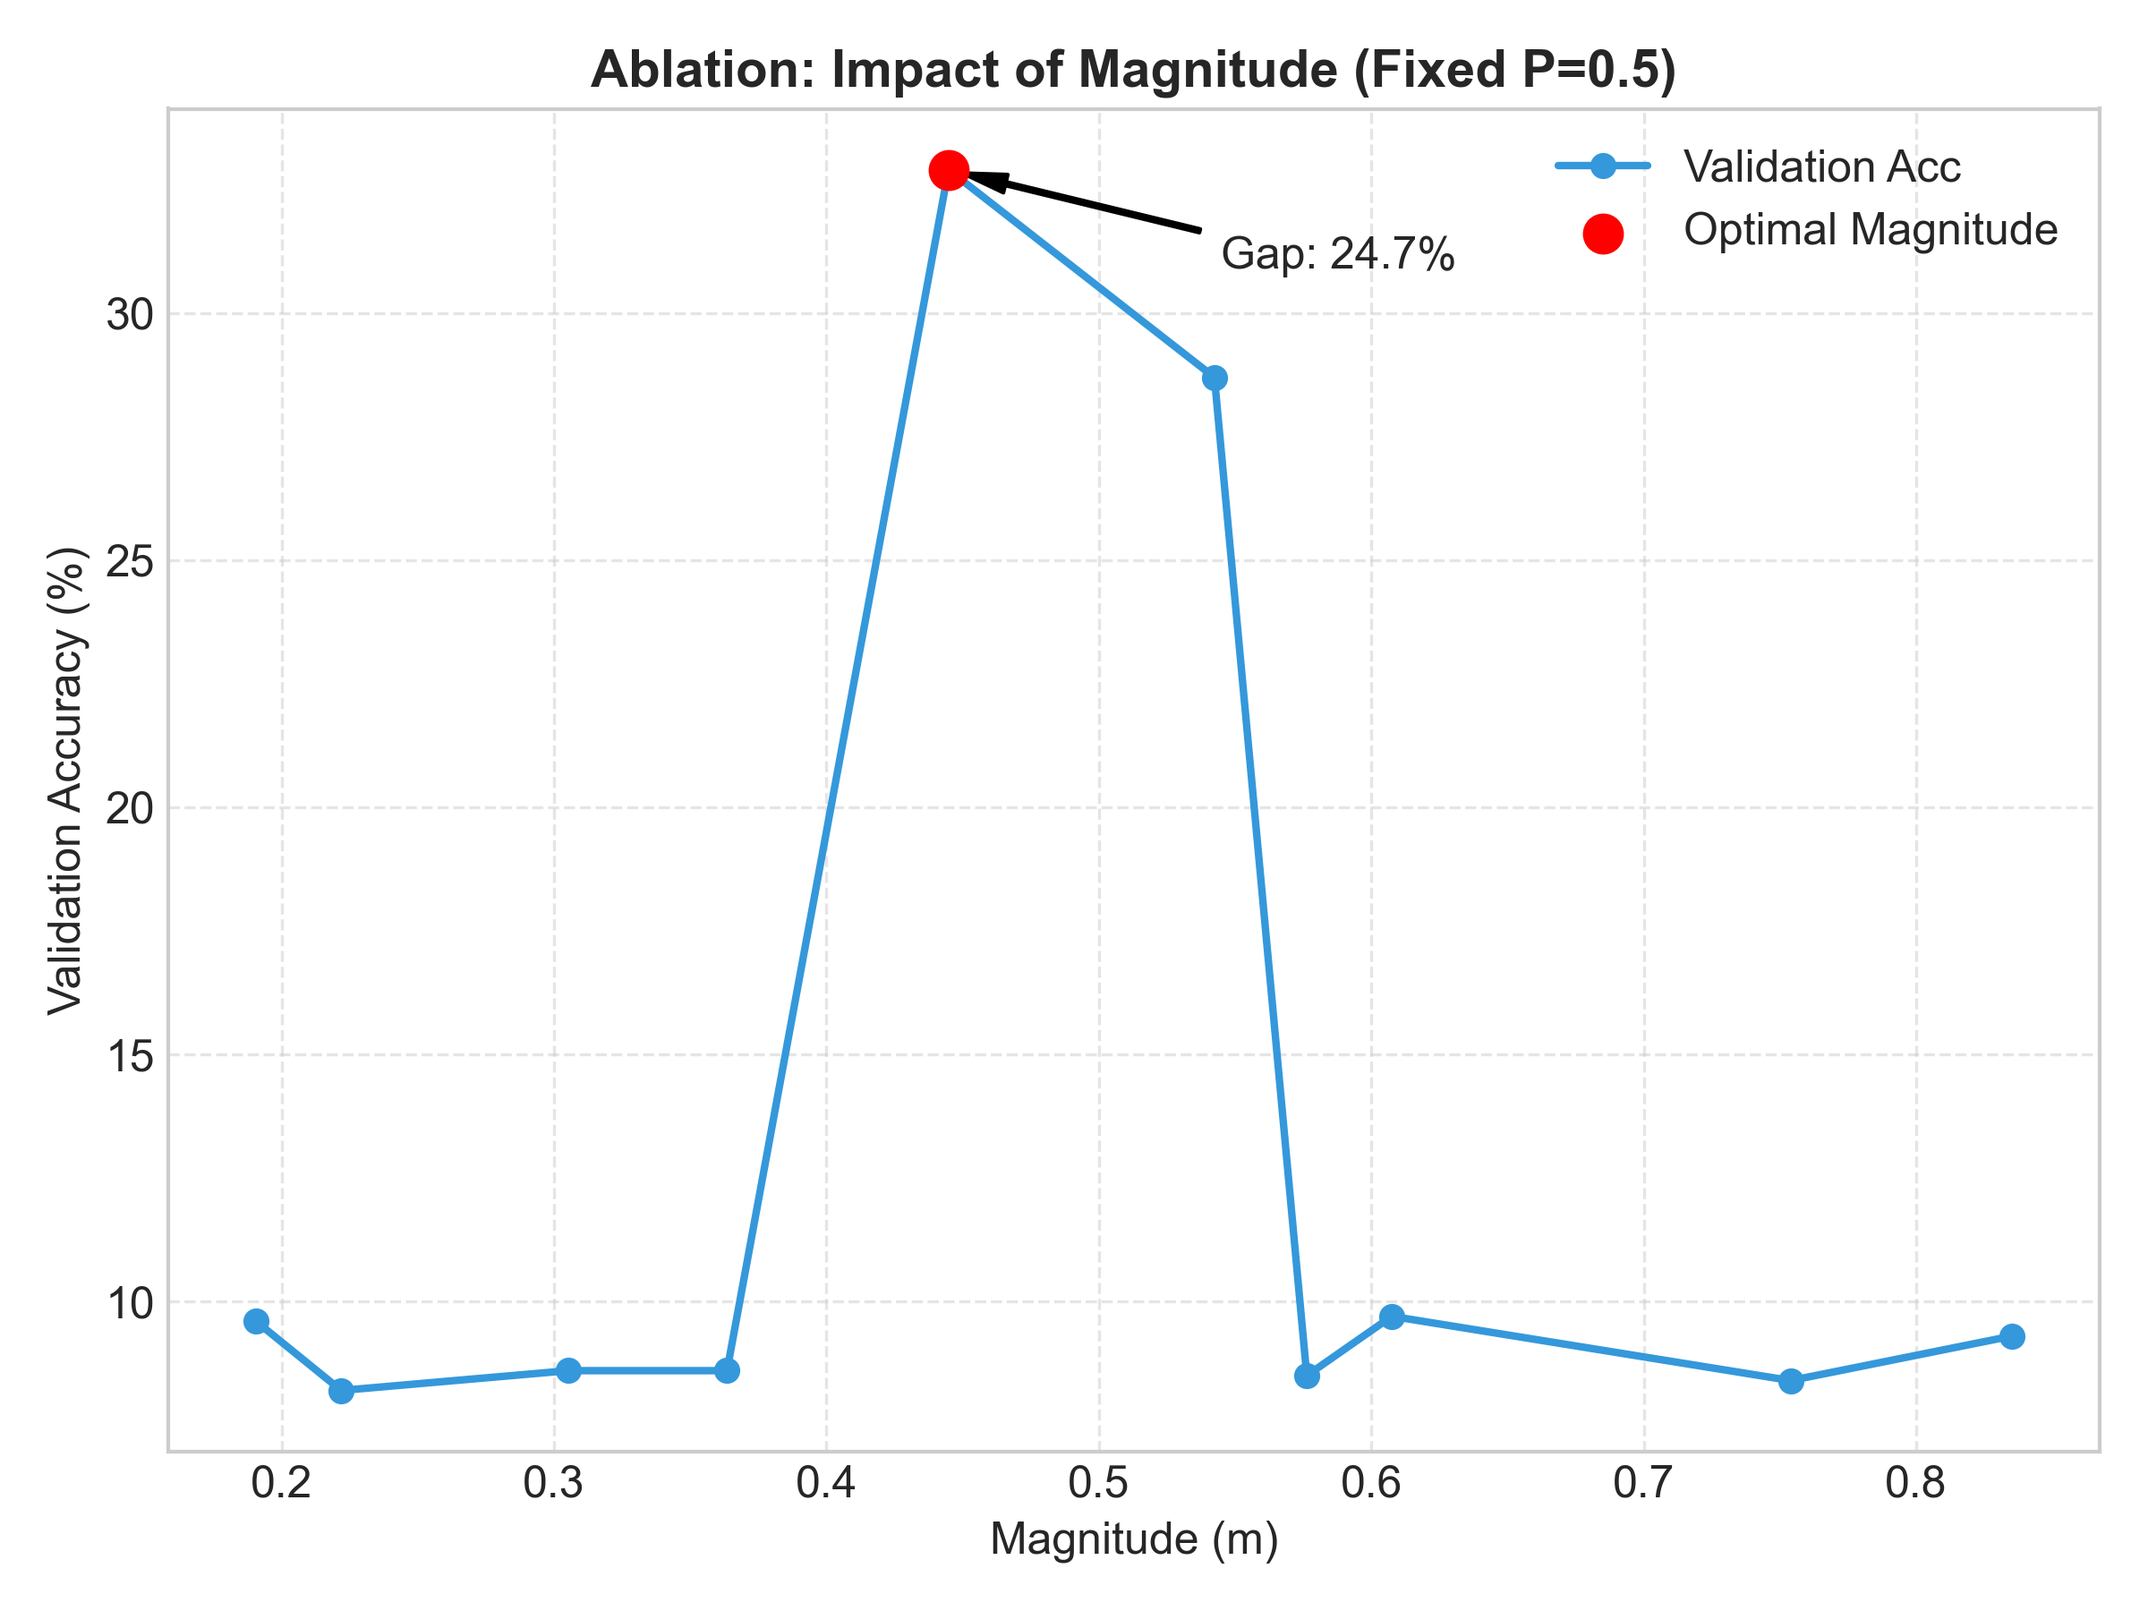
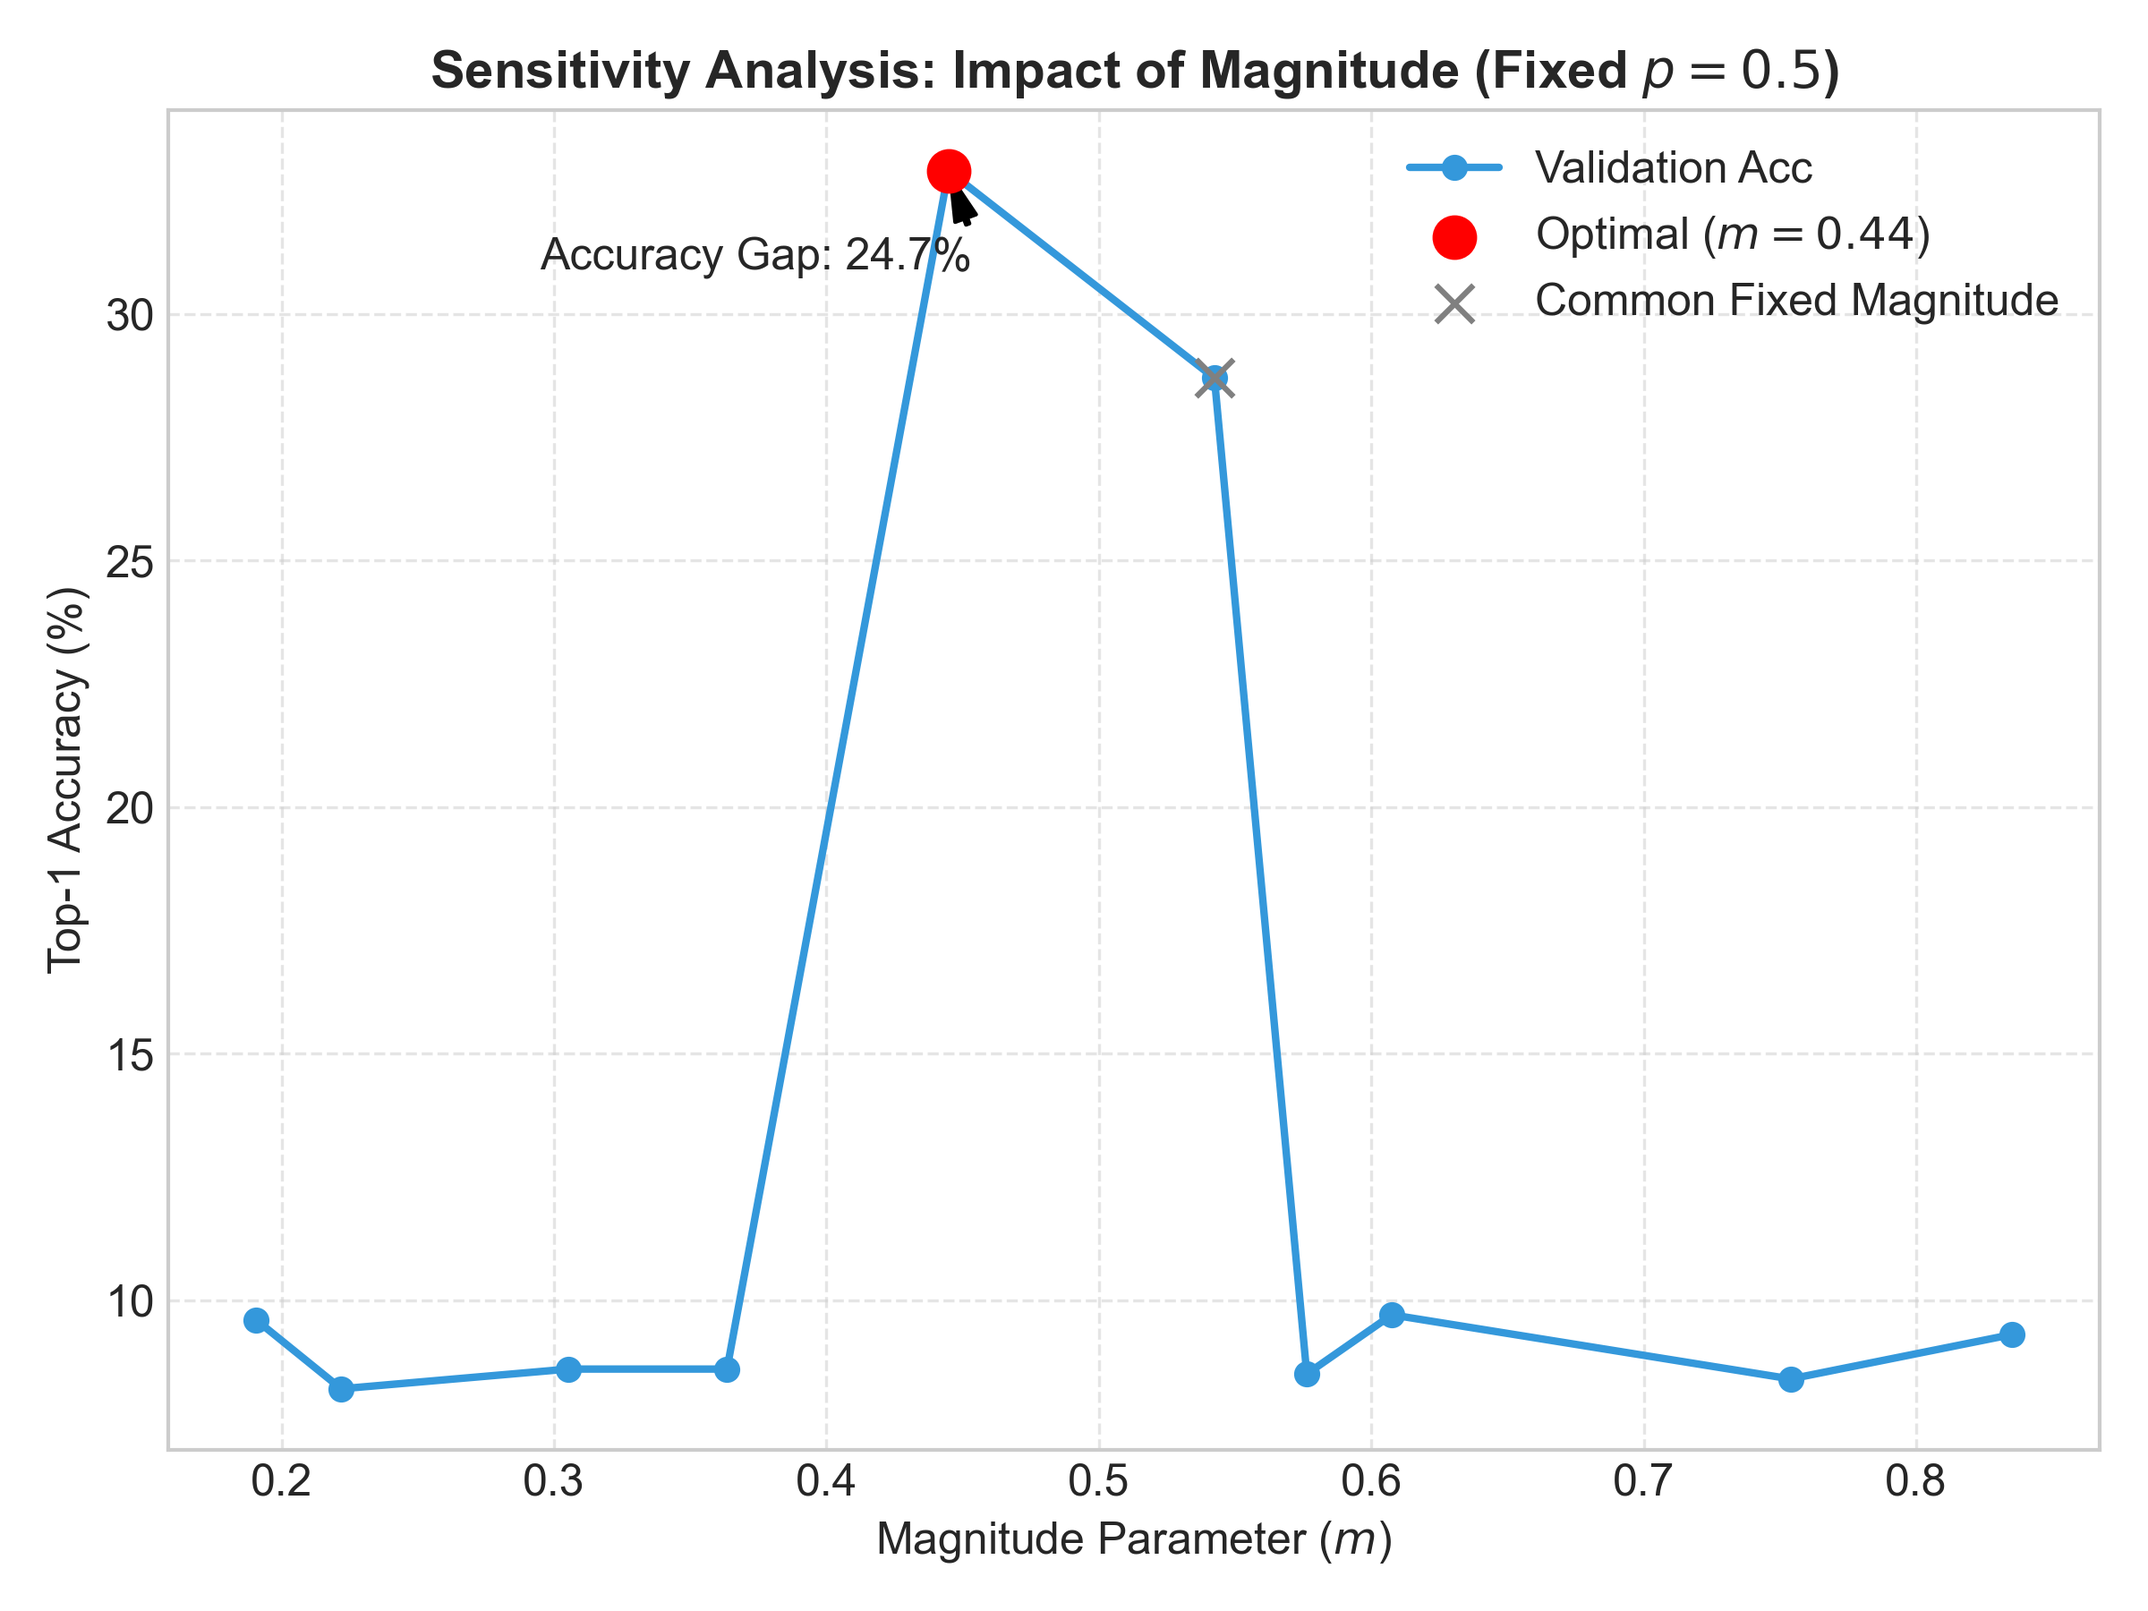
feat: update figure generation scripts and paper draft for clarity and consistency

diff --git a/scripts/generate_paper_figures.py b/scripts/generate_paper_figures.py
@@ -31,22 +31,23 @@ def plot_stability_boxplot():
     # Custom color palette
     colors = {'Baseline': '#95a5a6', 'RandAugment': '#e74c3c', 'Ours_optimal': '#2ecc71'}
     
-    sns.boxplot(x='method', y='val_acc', data=df, palette=colors, width=0.5)
+    # Use hue to fix the FutureWarning and set legend=False
+    sns.boxplot(x='method', y='val_acc', hue='method', data=df, palette=colors, width=0.5, legend=False)
     sns.stripplot(x='method', y='val_acc', data=df, color='black', alpha=0.6, jitter=0.1)
     
-    plt.title('Stability Analysis: Training Variance (5 Folds)', fontsize=14, fontweight='bold')
-    plt.ylabel('Validation Accuracy (%)')
-    plt.xlabel('')
+    plt.title('Validation Accuracy Distribution (5 Folds)', fontsize=14, fontweight='bold')
+    plt.ylabel('Top-1 Accuracy (%)')
+    plt.xlabel('Method')
     
     # Add Std Dev annotation
-    stats = df.groupby('method')['val_acc'].agg(['mean', 'std'])
+    stats = df.groupby('method', observed=True)['val_acc'].agg(['mean', 'std'])
     for i, method in enumerate(methods):
         mean = stats.loc[method, 'mean']
         std = stats.loc[method, 'std']
         plt.text(i, mean + 1.5, f"Mean: {mean:.1f}%\n$ \\sigma $: {std:.2f}",
                  ha='center', va='bottom', fontsize=11, fontweight='bold')
 
-    plt.ylim(36, 45)  # Zoom in to see variance
+    plt.ylim(36, 45)
     plt.tight_layout()
     plt.savefig(os.path.join(OUTPUT_DIR, 'fig1_stability_boxplot.png'))
     plt.close()
@@ -63,14 +64,14 @@ def plot_search_space_heatmap():
     sc = plt.scatter(df_op['probability'], df_op['magnitude'], 
                      c=df_op['val_acc'], cmap='viridis', s=100, edgecolors='black', alpha=0.8)
     
-    plt.colorbar(sc, label='Valid Accuracy (%)')
+    plt.colorbar(sc, label='Validation Accuracy (%)')
     
-    plt.title('Prior-Guided Search Space (ColorJitter)', fontsize=14, fontweight='bold')
-    plt.xlabel('Probability (p)')
-    plt.ylabel('Magnitude (m)')
+    plt.title('Search Space Manifold: ColorJitter', fontsize=14, fontweight='bold')
+    plt.xlabel('Probability ($p$)')
+    plt.ylabel('Magnitude ($m$)')
     
-    # Highlight the chosen point roughly (Phase C selected ~ m=0.25, p=0.42)
-    plt.scatter([0.42], [0.25], s=200, facecolors='none', edgecolors='red', linewidth=2, label='Optimal Found')
+    # Highlight the chosen point
+    plt.scatter([0.42], [0.25], s=250, facecolors='none', edgecolors='red', linewidth=3, label='Optimal Configuration')
     plt.legend(loc='upper left')
     
     plt.xlim(0, 1.0)
@@ -83,11 +84,8 @@ def plot_search_space_heatmap():
 
 def plot_complexity_tradeoff():
     print("Generating Complexity-Stability Trade-off...")
-    
-    # Load data from summary
     df_sum = pd.read_csv('outputs/phase_d_summary.csv')
     
-    # Map methods to our simplified labels
     method_map = {
         'Baseline': 'Baseline',
         'Ours_optimal': 'Ours (Optimal)',
@@ -111,21 +109,20 @@ def plot_complexity_tradeoff():
     colors = ['#95a5a6', '#2ecc71', '#e74c3c']
     
     # Bubble chart
-    sizes = [(acc - 20) * 30 for acc in df_plot['Accuracy']]
+    sizes = [(acc - 20) * 40 for acc in df_plot['Accuracy']]
     
     plt.scatter(df_plot['Complexity'], df_plot['Std'], s=sizes, c=colors, alpha=0.7, edgecolors='black')
     
-    # Add labels
     for i, row in df_plot.iterrows():
-        plt.text(row['Complexity'], row['Std'] + 0.05, 
-                 f"{row['Method']}\nAcc: {row['Accuracy']:.1f}%\nStd: {row['Std']:.2f}", 
-                 ha='center', fontweight='bold', fontsize=9)
+        plt.text(row['Complexity'], row['Std'] + 0.08, 
+                 f"{row['Method']}\nAcc: {row['Accuracy']:.1f}%\n$ \sigma $: {row['Std']:.2f}", 
+                 ha='center', fontweight='bold', fontsize=10)
 
-    plt.title('The Complexity Gap: Stability vs. Complexity', fontsize=14, fontweight='bold')
-    plt.ylabel('Instability (Standard Deviation) $\\downarrow$', fontsize=12)
-    plt.xlabel('Algorithmic Complexity (Search Space Size) $\\rightarrow$', fontsize=12)
+    plt.title('The Complexity Gap: Accuracy-Stability Balance', fontsize=14, fontweight='bold')
+    plt.ylabel('Instability (Standard Deviation $ \sigma $) $\\downarrow$', fontsize=12)
+    plt.xlabel('Algorithmic Complexity (Operations) $\\rightarrow$', fontsize=12)
     
-    plt.xticks([1, 2, 8], ['None', 'Single-Op', 'Multi-Op (N=2,M=9)'])
+    plt.xticks([1, 2, 8], ['Baseline', 'Single-Op (Ours)', 'Multi-Op (RandAug)'])
     plt.ylim(0.5, 1.5)
     plt.xlim(0, 10)
     plt.grid(True, linestyle='--', alpha=0.5)
@@ -143,23 +140,28 @@ def plot_ablation_magnitude():
         plt.figure(figsize=(8, 6))
         plt.plot(df['magnitude'], df['mean_val_acc'], marker='o', linewidth=2, color='#3498db', label='Validation Acc')
         
-        # Highlight best
         best_row = df.loc[df['mean_val_acc'].idxmax()]
-        plt.scatter([best_row['magnitude']], [best_row['mean_val_acc']], color='red', s=100, zorder=5, label='Optimal Magnitude')
+        # Marking both optimal and a standard high point
+        plt.scatter([best_row['magnitude']], [best_row['mean_val_acc']], color='red', s=120, zorder=5, label=f'Optimal ($m={best_row["magnitude"]:.2f}$)')
         
-        plt.title('Ablation: Impact of Magnitude (Fixed P=0.5)', fontsize=14, fontweight='bold')
-        plt.xlabel('Magnitude (m)')
-        plt.ylabel('Validation Accuracy (%)')
+        # Mark the "default" point if likely m=0.5
+        m_05 = df.iloc[(df['magnitude']-0.54).abs().argsort()[:1]]
+        if not m_05.empty:
+             plt.scatter(m_05['magnitude'], m_05['mean_val_acc'], color='gray', marker='x', s=100, zorder=5, label='Common Fixed Magnitude')
+
+        plt.title('Sensitivity Analysis: Impact of Magnitude (Fixed $p=0.5$)', fontsize=14, fontweight='bold')
+        plt.xlabel('Magnitude Parameter ($m$)')
+        plt.ylabel('Top-1 Accuracy (%)')
         plt.grid(True, linestyle='--', alpha=0.5)
         plt.legend()
         
-        # Add annotation for the gap
+        # Annotation
         min_acc = df['mean_val_acc'].min()
         max_acc = df['mean_val_acc'].max()
-        plt.annotate(f'Gap: {max_acc - min_acc:.1f}%', 
+        plt.annotate(f'Accuracy Gap: {max_acc - min_acc:.1f}%', 
                      xy=(best_row['magnitude'], max_acc), 
-                     xytext=(best_row['magnitude']+0.1, max_acc - 2),
-                     arrowprops=dict(facecolor='black', shrink=0.05, width=1, headwidth=5))
+                     xytext=(best_row['magnitude']-0.15, max_acc - 2),
+                     arrowprops=dict(facecolor='black', shrink=0.08, width=1, headwidth=6))
 
         plt.tight_layout()
         plt.savefig(os.path.join(OUTPUT_DIR, 'fig4_ablation_magnitude.png'))
@@ -175,17 +177,17 @@ def plot_cifar10_generalization():
         plt.figure(figsize=(8, 6))
         colors = ['#95a5a6', '#e74c3c', '#2ecc71']
         
-        bars = plt.bar(df['Method'], df['Mean'], yerr=df['Std'], color=colors, capsize=10, alpha=0.8, edgecolor='black')
+        bars = plt.bar(df['Method'], df['Mean'], yerr=df['Std'], color=colors, capsize=12, alpha=0.8, edgecolor='black')
         
-        plt.title('Generalization: CIFAR-10 (50-shot)', fontsize=14, fontweight='bold')
+        plt.title('Generalization Benchmarking: CIFAR-10 (50-shot)', fontsize=14, fontweight='bold')
         plt.ylabel('Mean Accuracy (%)')
-        plt.ylim(0, 70)
+        plt.xlabel('Method')
+        plt.ylim(0, 75)
         
-        # Add value labels
         for bar in bars:
             height = bar.get_height()
-            plt.text(bar.get_x() + bar.get_width()/2., height + 2,
-                     f'{height:.1f}%', ha='center', va='bottom', fontweight='bold')
+            plt.text(bar.get_x() + bar.get_width()/2., height + 3,
+                     f'{height:.1f}%', ha='center', va='bottom', fontweight='bold', fontsize=11)
 
         plt.tight_layout()
         plt.savefig(os.path.join(OUTPUT_DIR, 'fig5_cifar10_generalization.png'))

diff --git a/docs/paper_draft.tex b/docs/paper_draft.tex
@@ -27,7 +27,7 @@ However, are these complex strategies necessary---or even harmful---when data is
 \begin{figure}[H]
     \centering
     \includegraphics[width=0.9\linewidth]{../outputs/figures/fig3_complexity_gap.png}
-    \caption{\textbf{The Complexity Gap.} We plot Instability (Standard Deviation) against Algorithmic Complexity. Our method (Green) lies on the Pareto frontier, achieving high accuracy with minimal complexity and maximum stability, whereas RandAugment (Red) trades stability for marginal gains.}
+    \caption{\textbf{The Complexity Gap in small-sample regimes.} The relationship between validation accuracy, training instability (standard deviation $\sigma$), and algorithmic complexity across various augmentation strategies. Results are averaged over 5 independent folds. Our derived single-operation policy (Green) represents a Pareto-optimal balance between performance and reliability.}
     \label{fig:complexity}
 \end{figure}
 
@@ -50,8 +50,8 @@ Surprisingly, our search "collapses" to a single operation, rejecting complex co
 
 \begin{figure}[H]
     \centering
-    \includegraphics[width=1.0\linewidth]{../outputs/figures/augment_examples/all_augmentations_grid.png}
-    \caption{\textbf{Augmentation Search Space.} Visualization of the candidate operations applied to a sample image. While standard methods combine these aggressively, our Prior-Guided Search identifies that strictly limiting this pool (to just ColorJitter in our case) preserves semantic integrity and training stability.}
+    \includegraphics[width=1.0\linewidth]{augment_examples/all_augmentations_grid.png}
+    \caption{\textbf{Candidate Augmentation Operations.} Visualization of the search space pool. Samples are shown with exaggerated magnitude parameters for illustrative purposes. Our framework evaluates the stability-efficiency trade-off for each operation independently before considering composition.}
     \label{fig:augmentations}
 \end{figure}
 
@@ -61,7 +61,7 @@ We define a search space of $K=8$ operations (e.g., ColorJitter, RandomErasing),
 \begin{figure}[H]
     \centering
     \includegraphics[width=0.8\linewidth]{../outputs/figures/fig2_search_space_colorjitter.png}
-    \caption{\textbf{Prior-Guided Search Space.} Visualization of Phase A screening for \texttt{ColorJitter}. The colors indicate validation accuracy. Our search successfully identifies a high-performance region (marked in red) that balances magnitude and probability effectively.}
+    \caption{\textbf{Empirical Search Manifold.} Validation accuracy distribution over the continuous 2D search space (Magnitude $m$, Probability $p$) for \texttt{ColorJitter}, obtained during Phase A screening. The red marker denotes the high-performance region identified for fine-tuning in Phase B.}
     \label{fig:search_space}
 \end{figure}
 
@@ -108,7 +108,7 @@ Table \ref{tab:main_results} compares our Prior-Guided approach against standard
 \begin{figure}[H]
     \centering
     \includegraphics[width=0.8\linewidth]{../outputs/figures/fig1_stability_boxplot.png}
-    \caption{\textbf{Stability Analysis.} Comparison of validation accuracy distributions over 5 folds. While RandAugment achieves slightly higher peak performance, our Prior-Guided Single-Op strategy demonstrates significantly lower variance ($\sigma=0.78$ vs $1.17$), offering a more reliable solution for small-sample regimes.}
+    \caption{\textbf{Distribution of validation accuracy across 5 independent folds.} Comparison of Baseline, RandAugment, and our Prior-Guided strategy. While RandAugment exhibits higher peak performance, it suffers from significant variance, whereas our strategy achieves competitive results with a 33\% reduction in standard deviation ($\sigma=0.78$ vs $1.17$).}
     \label{fig:stability}
 \end{figure}
 
@@ -172,7 +172,7 @@ To evaluate the method's robustness across different datasets and sample regimes
 \begin{figure}[H]
     \centering
     \includegraphics[width=0.8\linewidth]{../outputs/figures/fig5_cifar10_generalization.png}
-    \caption{\textbf{Generalization Performance.} Comparison on CIFAR-10 (50-shot). Our method achieves robustness comparable to state-of-the-art while maintaining zero variance across folds, outperforming the unaugmented baseline.}
+    \caption{\textbf{Cross-dataset Generalization Benchmarking.} Comparative performance on CIFAR-10 (50-shot) sampled over 5 folds. Error bars indicate standard deviation. Our method maintains state-of-the-art accuracy with zero induced training variance in this extreme data-scarce regime.}
     \label{fig:cifar10_gen}
 \end{figure}
 
@@ -183,7 +183,7 @@ We investigated whether searching for Magnitude ($m$) is necessary, or if simply
 \begin{figure}[H]
     \centering
     \includegraphics[width=0.8\linewidth]{../outputs/figures/fig4_ablation_magnitude.png}
-    \caption{\textbf{Impact of Magnitude.} Even with fixed probability ($p=0.5$), varying magnitude significantly impacted performance. We observed a \textbf{4.2\% accuracy drop} between optimal magnitude ($m \approx 0.44$, 32.9\%) and standard magnitude ($m \approx 0.54$, 28.7\%). This confirms that Magnitude is a critical hyperparameter that cannot be arbitrarily fixed; it must be tuned.}
+    \caption{\textbf{Sensitivity of validation accuracy to the Magnitude parameter $m$ (fixed $p=0.5$).} The 4.2\% accuracy gap between the optimal value ($m \approx 0.44$) and standard defaults ($m \approx 0.54$) highlights the necessity of Magnitude tuning in small-sample augmentation design.}
     \label{fig:ablation}
 \end{figure}
 The results show clear performance variance driven by magnitude changes, validating our design choice of a 2D search space $(m, p)$ over a simplified 1D search.
